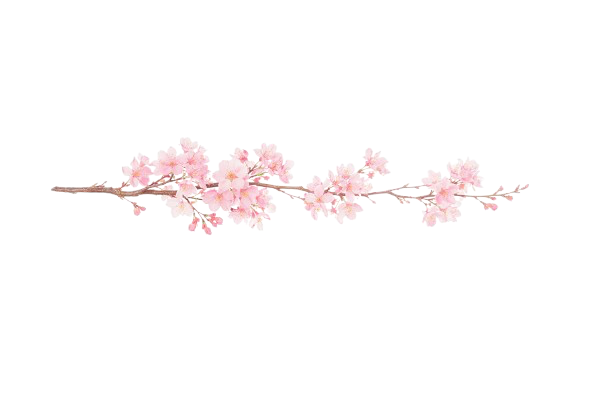
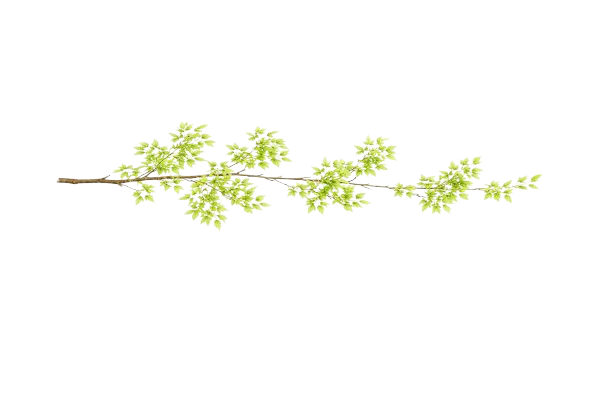
Add remaining files: password reset pages, assets, schema radius default
- ProForgotPassword & ProResetPassword pages
- Update radius default from 10 to 5 km
- Add background-cerisier image, update branche-horizontal
- Add workflow-expo.html

Changed region(s): [[0.0621, 0.2941, 0.9003, 0.5882]]

diff --git a/admin-dashboard/src/pages/ProResetPassword.tsx b/admin-dashboard/src/pages/ProResetPassword.tsx
@@ -1,0 +1,153 @@
+// Page de réinitialisation du mot de passe professionnel
+import { useState } from 'react';
+import { useSearchParams } from 'react-router-dom';
+import { resetProPassword } from '../services/api';
+
+type PageState = 'form' | 'success' | 'error';
+
+export default function ProResetPassword() {
+  const [searchParams] = useSearchParams();
+  const token = searchParams.get('token');
+
+  const [password, setPassword] = useState('');
+  const [confirmPassword, setConfirmPassword] = useState('');
+  const [formError, setFormError] = useState('');
+  const [isSubmitting, setIsSubmitting] = useState(false);
+  const [pageState, setPageState] = useState<PageState>(token ? 'form' : 'error');
+
+  const handleSubmit = async (e: React.FormEvent) => {
+    e.preventDefault();
+    setFormError('');
+
+    if (password.length < 8) {
+      setFormError('Le mot de passe doit contenir au moins 8 caractères');
+      return;
+    }
+
+    if (password !== confirmPassword) {
+      setFormError('Les mots de passe ne correspondent pas');
+      return;
+    }
+
+    setIsSubmitting(true);
+
+    try {
+      await resetProPassword(token!, password);
+      setPageState('success');
+    } catch (err: any) {
+      setFormError(err.response?.data?.message || 'Erreur lors de la réinitialisation');
+    } finally {
+      setIsSubmitting(false);
+    }
+  };
+
+  if (pageState === 'error') {
+    return (
+      <div className="min-h-screen flex items-center justify-center bg-gray-100">
+        <div className="bg-white p-8 rounded-lg shadow-md w-full max-w-md text-center">
+          <div className="text-red-500 mb-4">
+            <svg className="h-16 w-16 mx-auto" fill="none" viewBox="0 0 24 24" stroke="currentColor">
+              <path strokeLinecap="round" strokeLinejoin="round" strokeWidth={2} d="M12 9v2m0 4h.01m-6.938 4h13.856c1.54 0 2.502-1.667 1.732-3L13.732 4c-.77-1.333-2.694-1.333-3.464 0L3.34 16c-.77 1.333.192 3 1.732 3z" />
+            </svg>
+          </div>
+          <h1 className="text-xl font-bold text-gray-900 mb-2">Lien invalide</h1>
+          <p className="text-gray-600">Token manquant. Veuillez utiliser le lien reçu par email.</p>
+          <p className="mt-4">
+            <a href="/pro/forgot-password" className="text-teal-600 hover:text-teal-500 text-sm">
+              Demander un nouveau lien
+            </a>
+          </p>
+        </div>
+      </div>
+    );
+  }
+
+  if (pageState === 'success') {
+    return (
+      <div className="min-h-screen flex items-center justify-center bg-gray-100">
+        <div className="bg-white p-8 rounded-lg shadow-md w-full max-w-md text-center">
+          <div className="text-green-500 mb-4">
+            <svg className="h-16 w-16 mx-auto" fill="none" viewBox="0 0 24 24" stroke="currentColor">
+              <path strokeLinecap="round" strokeLinejoin="round" strokeWidth={2} d="M9 12l2 2 4-4m6 2a9 9 0 11-18 0 9 9 0 0118 0z" />
+            </svg>
+          </div>
+          <h1 className="text-xl font-bold text-gray-900 mb-2">Mot de passe réinitialisé</h1>
+          <p className="text-gray-600 mb-6">
+            Votre mot de passe a été modifié avec succès. Vous pouvez maintenant vous connecter avec votre nouveau mot de passe.
+          </p>
+          <div className="bg-gray-50 rounded-lg p-4 text-left">
+            <h2 className="font-medium text-gray-900 mb-2">Prochaines étapes :</h2>
+            <ol className="list-decimal list-inside text-gray-600 space-y-2 text-sm">
+              <li>Ouvrez l'application CleanHouse Pro sur votre téléphone</li>
+              <li>Connectez-vous avec votre nouveau mot de passe</li>
+            </ol>
+          </div>
+        </div>
+      </div>
+    );
+  }
+
+  return (
+    <div className="min-h-screen flex items-center justify-center bg-gray-100">
+      <div className="bg-white p-8 rounded-lg shadow-md w-full max-w-md">
+        <div className="text-center mb-8">
+          <h1 className="text-2xl font-bold text-gray-900">CleanHouse Pro</h1>
+          <p className="text-gray-600 mt-2">Nouveau mot de passe</p>
+        </div>
+
+        {formError && (
+          <div className="mb-4 p-3 bg-red-100 border border-red-400 text-red-700 rounded">
+            {formError}
+          </div>
+        )}
+
+        <form onSubmit={handleSubmit} className="space-y-6">
+          <div>
+            <label htmlFor="password" className="block text-sm font-medium text-gray-700">
+              Nouveau mot de passe
+            </label>
+            <input
+              type="password"
+              id="password"
+              value={password}
+              onChange={(e) => setPassword(e.target.value)}
+              required
+              minLength={8}
+              className="mt-1 block w-full px-3 py-2 border border-gray-300 rounded-md shadow-sm focus:outline-none focus:ring-teal-500 focus:border-teal-500"
+              placeholder="8 caractères minimum"
+            />
+          </div>
+
+          <div>
+            <label htmlFor="confirmPassword" className="block text-sm font-medium text-gray-700">
+              Confirmer le mot de passe
+            </label>
+            <input
+              type="password"
+              id="confirmPassword"
+              value={confirmPassword}
+              onChange={(e) => setConfirmPassword(e.target.value)}
+              required
+              minLength={8}
+              className="mt-1 block w-full px-3 py-2 border border-gray-300 rounded-md shadow-sm focus:outline-none focus:ring-teal-500 focus:border-teal-500"
+            />
+          </div>
+
+          <button
+            type="submit"
+            disabled={isSubmitting}
+            className="w-full flex justify-center py-2 px-4 border border-transparent rounded-md shadow-sm text-sm font-medium text-white bg-teal-600 hover:bg-teal-700 focus:outline-none focus:ring-2 focus:ring-offset-2 focus:ring-teal-500 disabled:opacity-50"
+          >
+            {isSubmitting ? 'Réinitialisation en cours...' : 'Réinitialiser le mot de passe'}
+          </button>
+        </form>
+
+        <p className="mt-6 text-center text-sm text-gray-500">
+          <a href="/pro/forgot-password" className="text-teal-600 hover:text-teal-500">
+            Demander un nouveau lien
+          </a>
+        </p>
+      </div>
+    </div>
+  );
+}

diff --git a/workflow-expo.html b/workflow-expo.html
@@ -1,0 +1,138 @@
+<!DOCTYPE html>
+<html lang="fr">
+<head>
+<meta charset="UTF-8">
+<title>CleanHouse - Workflow de Test iOS</title>
+<style>
+  @media print { body { -webkit-print-color-adjust: exact; print-color-adjust: exact; } }
+  body { font-family: -apple-system, Helvetica Neue, Arial, sans-serif; max-width: 750px; margin: 40px auto; padding: 0 30px; color: #1a1a1a; line-height: 1.6; }
+  h1 { text-align: center; font-size: 26px; margin-bottom: 5px; color: #0a0a0a; }
+  .subtitle { text-align: center; color: #666; font-size: 14px; margin-bottom: 35px; }
+  h2 { font-size: 18px; color: #fff; background: #2563eb; padding: 8px 14px; border-radius: 6px; margin-top: 30px; }
+  h3 { font-size: 15px; color: #2563eb; margin-bottom: 5px; }
+  .card { background: #f8fafc; border: 1px solid #e2e8f0; border-radius: 8px; padding: 16px 20px; margin: 12px 0; }
+  .card-green { border-left: 4px solid #22c55e; }
+  .card-blue { border-left: 4px solid #2563eb; }
+  .card-orange { border-left: 4px solid #f59e0b; }
+  code { background: #1e293b; color: #e2e8f0; padding: 2px 7px; border-radius: 4px; font-size: 13px; }
+  .cmd { background: #1e293b; color: #e2e8f0; padding: 12px 16px; border-radius: 6px; margin: 8px 0; font-family: 'SF Mono', Menlo, monospace; font-size: 13px; }
+  table { width: 100%; border-collapse: collapse; margin: 15px 0; font-size: 14px; }
+  th { background: #2563eb; color: #fff; padding: 10px 12px; text-align: left; }
+  td { padding: 10px 12px; border-bottom: 1px solid #e2e8f0; }
+  tr:nth-child(even) { background: #f8fafc; }
+  .tag { display: inline-block; padding: 2px 10px; border-radius: 12px; font-size: 12px; font-weight: 600; }
+  .tag-fast { background: #dcfce7; color: #166534; }
+  .tag-medium { background: #dbeafe; color: #1e40af; }
+  .tag-slow { background: #fef3c7; color: #92400e; }
+  .divider { border: none; border-top: 2px dashed #e2e8f0; margin: 30px 0; }
+  .footer { text-align: center; color: #94a3b8; font-size: 12px; margin-top: 40px; }
+  .emoji { font-size: 20px; vertical-align: middle; }
+</style>
+</head>
+<body>
+
+<h1>CleanHouse - Workflow de Test iOS</h1>
+<p class="subtitle">Fiche pratique pour tester l'app sur iPhone</p>
+
+<h2>1. Developpement quotidien <span class="tag tag-fast">Instantane</span></h2>
+<div class="card card-green">
+  <h3>Expo Dev Server (Hot Reload)</h3>
+  <p>Pour le developpement au jour le jour. Les changements apparaissent en temps reel sur le telephone.</p>
+  <div class="cmd">npx expo start</div>
+  <p><strong>Quand :</strong> Modifications de code JS/TS, styles, logique, composants, ecrans.</p>
+  <p><strong>Comment :</strong> Scannez le QR code avec l'appareil photo de l'iPhone.</p>
+</div>
+
+<h2>2. Mise a jour OTA (Over-The-Air) <span class="tag tag-medium">~30 sec</span></h2>
+<div class="card card-blue">
+  <h3>EAS Update</h3>
+  <p>Met a jour l'app deja installee sans rebuild. Ideal pour tester sur l'app preview.</p>
+  <div class="cmd">eas update --branch preview --message "description"</div>
+  <p><strong>Quand :</strong> Vous voulez mettre a jour l'app preview installee sur le telephone.</p>
+  <p><strong>Comment :</strong> L'app se met a jour automatiquement au prochain lancement.</p>
+</div>
+
+<h2>3. Build complet EAS <span class="tag tag-slow">Long (queue)</span></h2>
+<div class="card card-orange">
+  <h3>EAS Build</h3>
+  <p>Recompile entierement l'app native. Necessaire uniquement pour les changements natifs.</p>
+  <div class="cmd">eas build --platform ios --profile preview</div>
+  <p><strong>Quand utiliser :</strong></p>
+  <ul>
+    <li>Ajout/modification d'une dependance native</li>
+    <li>Changement dans <code>app.json</code> (permissions, icone, splash...)</li>
+    <li>Modification d'un plugin Expo</li>
+  </ul>
+  <p><strong>Astuce :</strong> Ajoutez <code>--local</code> pour compiler sur votre Mac (necessite Xcode, pas de queue).</p>
+</div>
+
+<hr class="divider">
+
+<h2>Resume rapide</h2>
+<table>
+  <thead>
+    <tr>
+      <th>Type de changement</th>
+      <th>Methode</th>
+      <th>Temps</th>
+    </tr>
+  </thead>
+  <tbody>
+    <tr>
+      <td>Code JS/TS, styles, logique</td>
+      <td><code>npx expo start</code></td>
+      <td><span class="tag tag-fast">Instantane</span></td>
+    </tr>
+    <tr>
+      <td>MAJ app preview installee</td>
+      <td><code>eas update</code></td>
+      <td><span class="tag tag-medium">~30 sec</span></td>
+    </tr>
+    <tr>
+      <td>Nouvelle lib native / config</td>
+      <td><code>eas build</code></td>
+      <td><span class="tag tag-slow">5-30 min</span></td>
+    </tr>
+  </tbody>
+</table>
+
+<hr class="divider">
+
+<h2>Commandes utiles</h2>
+<table>
+  <thead>
+    <tr>
+      <th>Action</th>
+      <th>Commande</th>
+    </tr>
+  </thead>
+  <tbody>
+    <tr>
+      <td>Voir les builds en cours</td>
+      <td><code>eas build:list</code></td>
+    </tr>
+    <tr>
+      <td>Voir un build specifique</td>
+      <td><code>eas build:view [ID]</code></td>
+    </tr>
+    <tr>
+      <td>Annuler un build</td>
+      <td><code>eas build:cancel [ID]</code></td>
+    </tr>
+    <tr>
+      <td>Build local (sans queue)</td>
+      <td><code>eas build --platform ios --local</code></td>
+    </tr>
+    <tr>
+      <td>Soumettre a l'App Store</td>
+      <td><code>eas submit --platform ios</code></td>
+    </tr>
+  </tbody>
+</table>
+
+<div class="footer">
+  CleanHouse &mdash; Projet @samy00/CleanAppExpo
+</div>
+
+</body>
+</html>

diff --git a/admin-dashboard/src/pages/ProForgotPassword.tsx b/admin-dashboard/src/pages/ProForgotPassword.tsx
@@ -1,0 +1,98 @@
+// Page de demande de réinitialisation de mot de passe professionnel
+import { useState } from 'react';
+import { requestPasswordReset } from '../services/api';
+
+export default function ProForgotPassword() {
+  const [email, setEmail] = useState('');
+  const [isSubmitting, setIsSubmitting] = useState(false);
+  const [sent, setSent] = useState(false);
+  const [error, setError] = useState('');
+
+  const handleSubmit = async (e: React.FormEvent) => {
+    e.preventDefault();
+    setError('');
+    setIsSubmitting(true);
+
+    try {
+      await requestPasswordReset(email);
+      setSent(true);
+    } catch (err: any) {
+      setError(err.response?.data?.message || 'Une erreur est survenue. Veuillez réessayer.');
+    } finally {
+      setIsSubmitting(false);
+    }
+  };
+
+  if (sent) {
+    return (
+      <div className="min-h-screen flex items-center justify-center bg-gray-100">
+        <div className="bg-white p-8 rounded-lg shadow-md w-full max-w-md text-center">
+          <div className="text-green-500 mb-4">
+            <svg className="h-16 w-16 mx-auto" fill="none" viewBox="0 0 24 24" stroke="currentColor">
+              <path strokeLinecap="round" strokeLinejoin="round" strokeWidth={2} d="M3 8l7.89 5.26a2 2 0 002.22 0L21 8M5 19h14a2 2 0 002-2V7a2 2 0 00-2-2H5a2 2 0 00-2 2v10a2 2 0 002 2z" />
+            </svg>
+          </div>
+          <h1 className="text-xl font-bold text-gray-900 mb-2">Email envoyé</h1>
+          <p className="text-gray-600">
+            Si un compte existe avec l'adresse <span className="font-medium">{email}</span>, vous recevrez un lien de réinitialisation dans quelques minutes.
+          </p>
+          <p className="text-gray-500 mt-4 text-sm">
+            Pensez à vérifier vos spams.
+          </p>
+        </div>
+      </div>
+    );
+  }
+
+  return (
+    <div className="min-h-screen flex items-center justify-center bg-gray-100">
+      <div className="bg-white p-8 rounded-lg shadow-md w-full max-w-md">
+        <div className="text-center mb-8">
+          <h1 className="text-2xl font-bold text-gray-900">CleanHouse Pro</h1>
+          <p className="text-gray-600 mt-2">Mot de passe oublié</p>
+        </div>
+
+        <p className="text-gray-600 text-sm mb-6">
+          Entrez votre adresse email et nous vous enverrons un lien pour réinitialiser votre mot de passe.
+        </p>
+
+        {error && (
+          <div className="mb-4 p-3 bg-red-100 border border-red-400 text-red-700 rounded">
+            {error}
+          </div>
+        )}
+
+        <form onSubmit={handleSubmit} className="space-y-6">
+          <div>
+            <label htmlFor="email" className="block text-sm font-medium text-gray-700">
+              Adresse email
+            </label>
+            <input
+              type="email"
+              id="email"
+              value={email}
+              onChange={(e) => setEmail(e.target.value)}
+              required
+              className="mt-1 block w-full px-3 py-2 border border-gray-300 rounded-md shadow-sm focus:outline-none focus:ring-teal-500 focus:border-teal-500"
+              placeholder="votre@email.com"
+            />
+          </div>
+
+          <button
+            type="submit"
+            disabled={isSubmitting}
+            className="w-full flex justify-center py-2 px-4 border border-transparent rounded-md shadow-sm text-sm font-medium text-white bg-teal-600 hover:bg-teal-700 focus:outline-none focus:ring-2 focus:ring-offset-2 focus:ring-teal-500 disabled:opacity-50"
+          >
+            {isSubmitting ? 'Envoi en cours...' : 'Envoyer le lien'}
+          </button>
+        </form>
+
+        <p className="mt-6 text-center text-sm text-gray-500">
+          <a href="/login" className="text-teal-600 hover:text-teal-500">
+            Retour à la connexion
+          </a>
+        </p>
+      </div>
+    </div>
+  );
+}
